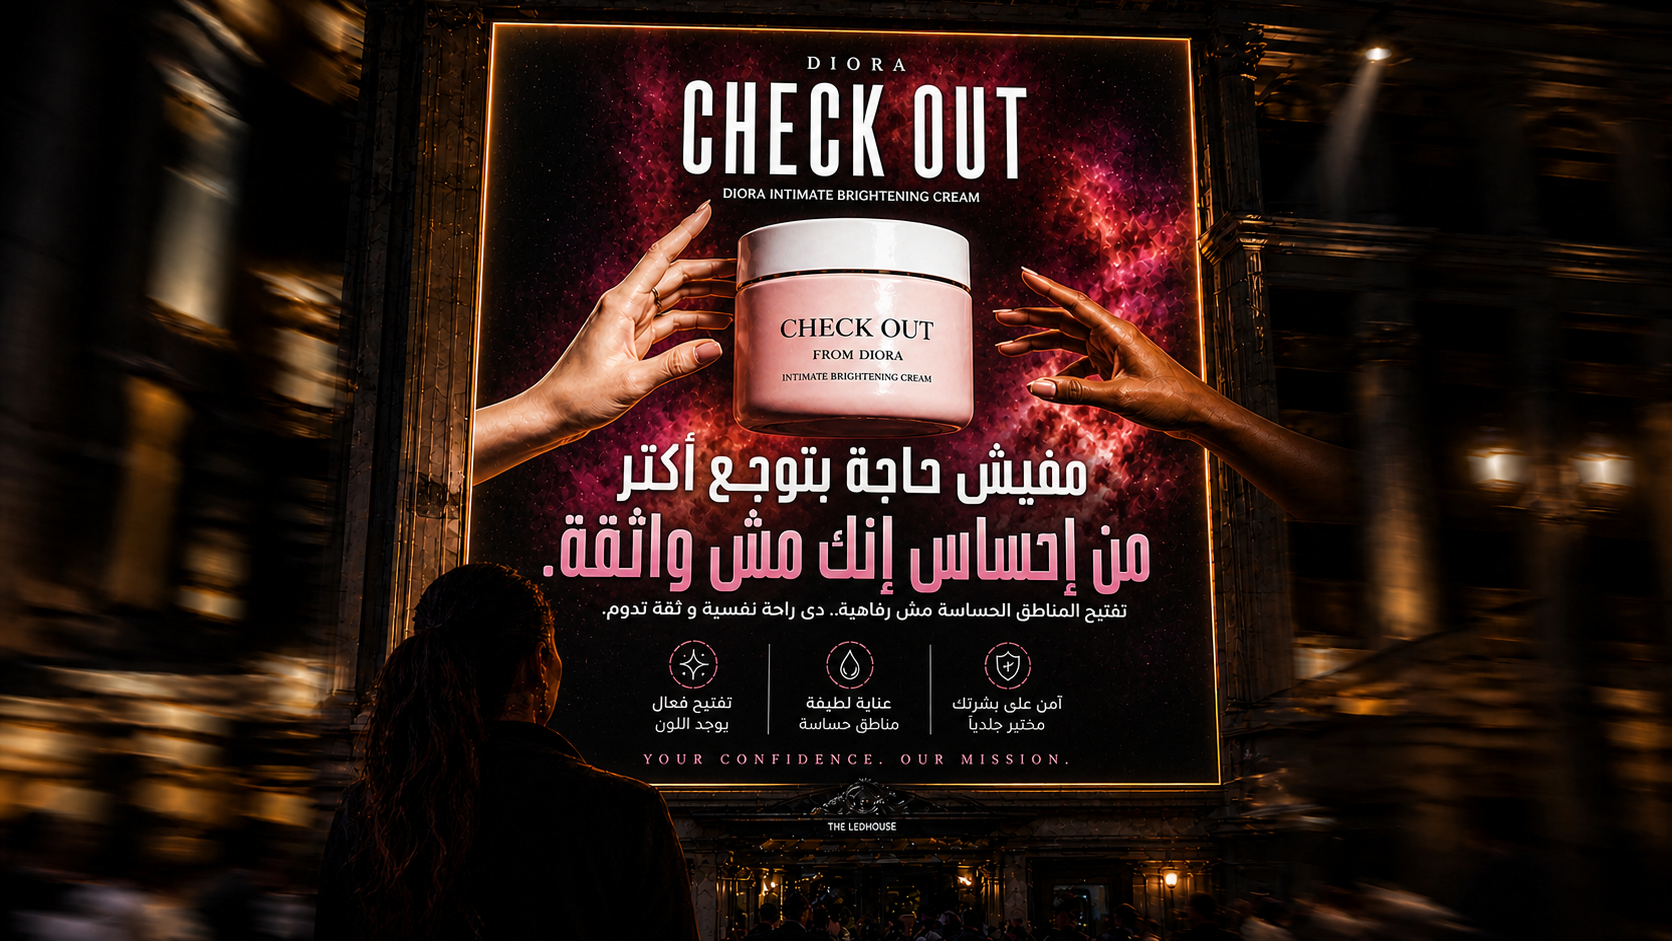
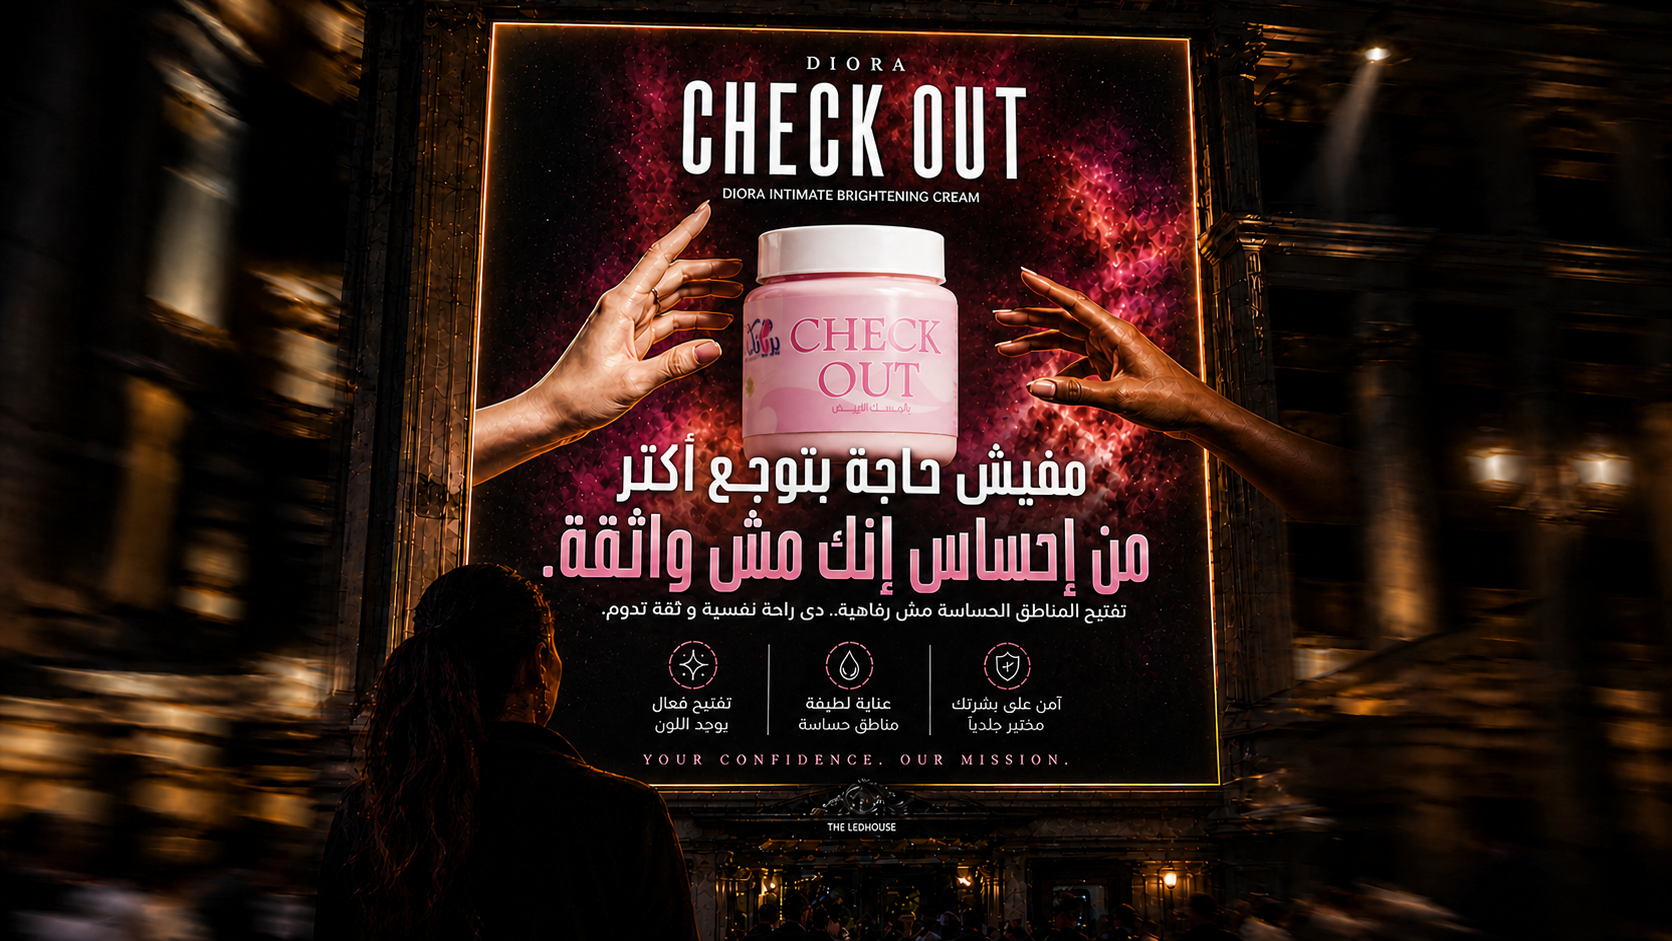
Batch 7: Mobile-First Polish & Art Direction
- Add mobileSrc to HeroImage interface and hero constants
- HeroCarousel: picture element for art-directed mobile/desktop images
- Features/HowToUse/Ingredients: horizontal snap scroll on mobile, grid on desktop
- ProductShowcase: 3-column stats grid for mobile compaction
- globals.css: no-scrollbar utility for hidden native scrollbars

diff --git a/src/components/sections/Hero/HeroCarousel.tsx b/src/components/sections/Hero/HeroCarousel.tsx
@@ -38,14 +38,20 @@ export default function HeroCarousel() {
           aria-label={`${i + 1} of ${HERO_IMAGES.length}`}
           className="absolute inset-0"
         >
-          <Image
-            src={img.src}
-            alt={img.alt}
-            fill
-            sizes="100vw"
-            priority={i === 0}
-            className={`object-cover object-center transition-all duration-[1500ms] ease-in-out ${i === current ? "opacity-100 scale-100" : "opacity-0 scale-105"}`}
-          />
+          <picture>
+            {img.mobileSrc && (
+              <source media="(max-width: 767px)" srcSet={img.mobileSrc} />
+            )}
+            <source media="(min-width: 768px)" srcSet={img.src} />
+            <Image
+              src={img.mobileSrc || img.src}
+              alt={img.alt}
+              fill
+              sizes="100vw"
+              priority={i === 0}
+              className={`object-cover object-center transition-all duration-[1500ms] ease-in-out ${i === current ? "opacity-100 scale-100" : "opacity-0 scale-105"}`}
+            />
+          </picture>
         </div>
       ))}
 

diff --git a/src/components/sections/ProductDetails/ProductShowcase.tsx b/src/components/sections/ProductDetails/ProductShowcase.tsx
@@ -62,18 +62,16 @@ export default function ProductShowcase({
           ))}
         </ul>
 
-        <div ref={statsRef} className="flex items-center gap-6 mb-10 pb-6 border-b border-brand-text/10 w-full max-w-md">
-          <div className="flex flex-col">
+        <div ref={statsRef} className="grid grid-cols-3 gap-4 mb-10 pb-6 border-b border-brand-text/10 w-full max-w-md">
+          <div className="flex flex-col items-center text-center">
             <span className="font-serif text-2xl text-brand-pink-dark">{statsVisible ? animatedStats.brightening : 0}%</span>
             <span className="text-[10px] text-brand-muted uppercase tracking-wider mt-1">تفتيح ملحوظ</span>
           </div>
-          <div className="w-px h-8 bg-brand-text/10"></div>
-          <div className="flex flex-col">
+          <div className="flex flex-col items-center text-center">
             <span className="font-serif text-2xl text-brand-pink-dark">{statsVisible ? animatedStats.softness : 0}%</span>
             <span className="text-[10px] text-brand-muted uppercase tracking-wider mt-1">نعومة فائقة</span>
           </div>
-          <div className="w-px h-8 bg-brand-text/10"></div>
-          <div className="flex flex-col">
+          <div className="flex flex-col items-center text-center">
             <span className="font-serif text-2xl text-brand-pink-dark">{statsVisible ? animatedStats.satisfaction : 0}%</span>
             <span className="text-[10px] text-brand-muted uppercase tracking-wider mt-1">رضا العملاء</span>
           </div>

diff --git a/src/app/globals.css b/src/app/globals.css
@@ -60,3 +60,11 @@ body {
 button, a, [role="button"], [data-cursor="pointer"] {
   cursor: pointer;
 }
+
+.no-scrollbar {
+  -ms-overflow-style: none;
+  scrollbar-width: none;
+}
+.no-scrollbar::-webkit-scrollbar {
+  display: none;
+}

diff --git a/src/components/sections/Features.tsx b/src/components/sections/Features.tsx
@@ -99,11 +99,11 @@ export default function Features() {
 
           <div ref={lineRef} className="w-24 h-[3px] origin-right bg-gradient-to-l from-brand-accent to-brand-accent/20 rounded-full mb-12" />
 
-          <div className="flex flex-col divide-y divide-brand-text/10">
+          <div className="flex flex-nowrap overflow-x-auto snap-x snap-mandatory no-scrollbar gap-6 md:flex-col md:overflow-x-visible md:snap-none md:divide-y md:divide-brand-text/10 md:gap-0">
             {FEATURES.map((feature) => (
               <div
                 key={feature.number}
-                className="features-item flex gap-6 py-8 first:pt-0 last:pb-0"
+                className="features-item flex min-w-[85vw] snap-center gap-6 py-8 first:pt-0 last:pb-0 md:min-w-0"
               >
                 <span className="font-serif text-2xl text-brand-pink shrink-0">
                   {feature.number}

diff --git a/src/components/sections/HowToUse.tsx b/src/components/sections/HowToUse.tsx
@@ -59,12 +59,12 @@ export default function HowToUse() {
           <div ref={lineRef} className="mt-5 w-24 h-[3px] mx-auto origin-right bg-gradient-to-l from-brand-accent to-brand-accent/20 rounded-full" />
         </div>
 
-        <div className="flex flex-col gap-10 lg:flex-row lg:gap-12">
+        <div className="flex flex-nowrap overflow-x-auto snap-x snap-mandatory no-scrollbar gap-6 lg:flex-row lg:overflow-x-visible lg:snap-none lg:gap-12">
           {STEPS.map((step, index) => {
               return (
             <div
               key={step.number}
-              className="howto-step flex-1 text-center"
+              className="howto-step min-w-[85vw] snap-center flex-shrink-0 text-center lg:min-w-0 lg:flex-1"
             >
               <div className="w-16 h-16 mx-auto mb-5 rounded-full bg-brand-pink/15 flex items-center justify-center">
                 <Icon iconId={step.iconId} className="h-7 w-7 text-brand-pink-dark" strokeWidth={1.5} />

diff --git a/src/components/sections/Ingredients.tsx b/src/components/sections/Ingredients.tsx
@@ -96,11 +96,11 @@ export default function Ingredients() {
         </div>
 
         {/* Circles */}
-        <div className="flex flex-col items-center justify-center gap-10 md:flex-row md:gap-16 lg:gap-20">
+        <div className="flex flex-nowrap overflow-x-auto snap-x snap-mandatory no-scrollbar items-center justify-start gap-10 md:flex-row md:overflow-x-visible md:snap-none md:justify-center md:gap-16 lg:gap-20">
           {INGREDIENTS_FULL.map((ing, i) => (
             <div
               key={ing.subtitle}
-              className="ing-card group flex flex-col items-center gap-4"
+              className="ing-card group flex min-w-[85vw] snap-center flex-shrink-0 flex-col items-center gap-4 md:min-w-0"
             >
               {/* Circle image */}
               <div className="relative h-48 w-48 overflow-hidden rounded-full border-2 border-brand-pink/20 p-1 transition-all duration-700 group-hover:border-brand-pink/60 group-hover:shadow-[0_0_40px_rgba(230,139,190,0.2)] lg:h-56 lg:w-56">

diff --git a/src/constants/hero.ts b/src/constants/hero.ts
@@ -1,6 +1,6 @@
 import type { HeroImage } from "@/types/data";
 
 export const HERO_IMAGES: HeroImage[] = [
-  { src: "/assets/images/hero1.png", alt: "Hero" },
-  { src: "/assets/images/hero2.png", alt: "Hero" },
+  { src: "/assets/images/hero1.png", alt: "Hero", mobileSrc: "/assets/images/mobile-hero-1.png" },
+  { src: "/assets/images/hero2.png", alt: "Hero", mobileSrc: "/assets/images/mobile-hero-2.png" },
 ];

diff --git a/src/types/data.ts b/src/types/data.ts
@@ -19,6 +19,7 @@ export interface AnimatedStats {
 export interface HeroImage {
   src: string;
   alt: string;
+  mobileSrc?: string;
 }
 
 // ── Ingredients ──────────────────────────────────────